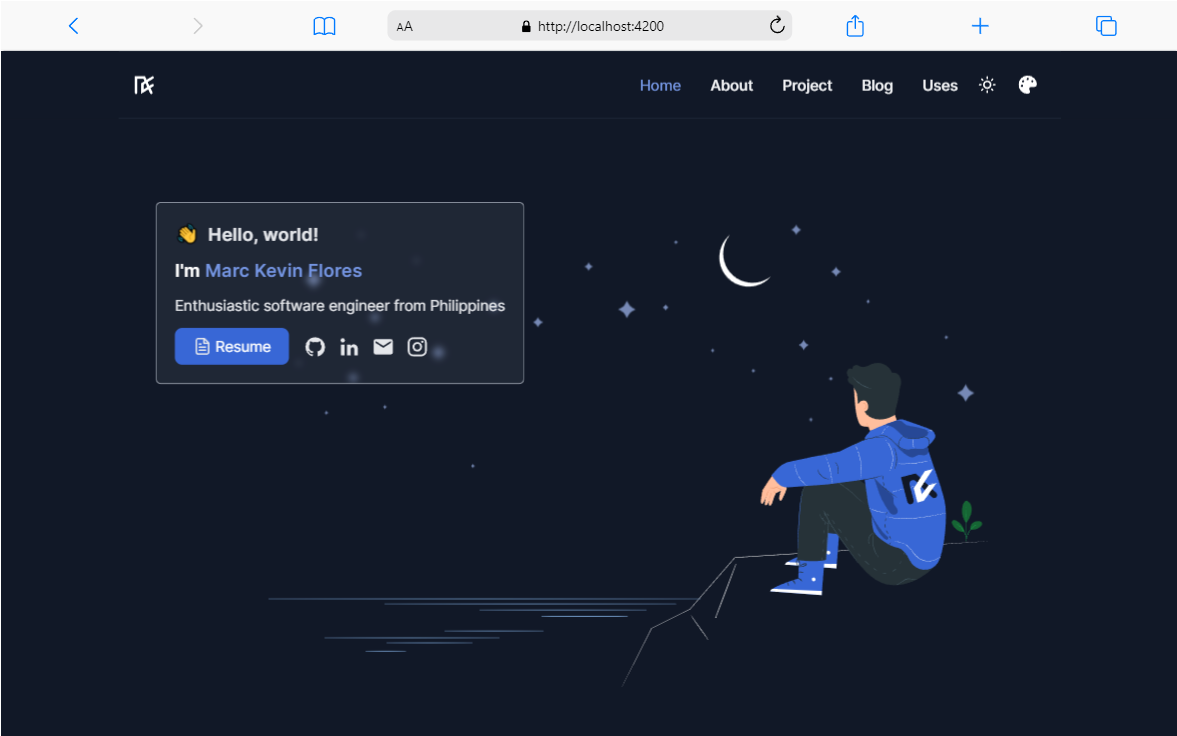
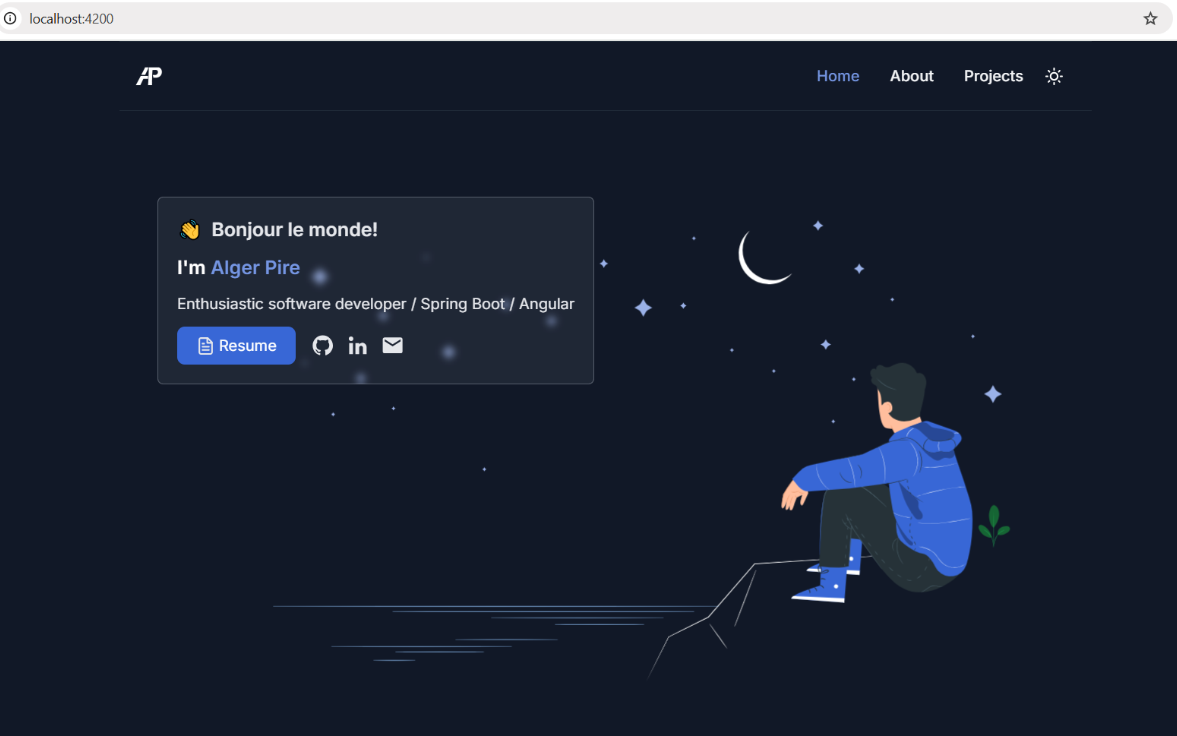
readme updated + preview

diff --git a/README.md b/README.md
@@ -1,6 +1,3 @@
-# [kevinflor.es](https://kevinflor.es)
-
-
 <picture>
   <source media="(prefers-color-scheme: dark)" srcset="./preview-dark.png">
   <source media="(prefers-color-scheme: light)" srcset="./preview.png">
@@ -10,16 +7,13 @@
 ## Stack
 - **Framework**: [Angular](https://angular.dev/)
 - **Styling**: [Tailwind CSS](https://tailwindcss.com/)
-- **Deployment**: [AWS S3](https://aws.amazon.com/s3/)
 
 ## Features 📋
-⚡ Navbar Glassmorphism\
-⚡ Toolbar Color Theme Selector\
-⚡ Light and Dark Mode\
-⚡ Spotlight Glow Hover Card\
-⚡ Devicon with Tooltip\
-⚡ Spotify Music API\
-⚡ Trakt Watch API
+⚡ Navbar Glassmorphism
+⚡ Toolbar Color Theme Selector
+⚡ Light and Dark Mode
+⚡ Spotlight Glow Hover Card
+⚡ Devicon with Tooltip
 
 ## Sections 📚
 ✔ Intro Image\
@@ -28,28 +22,3 @@
 ✔ In my work\
 ✔ About\
 ✔ Projects\
-✔ Uses
-
-
-## Running Locally
-
-This application requires Node.js v18.13+.
-
-```bash
-npm install -g @angular/cli
-git clone https://github.com/marckevinflores/kevinflor.es.git
-cd kevinflor.es
-npm install
-```
-
-Before starting the application, you need to rename the files inside the `src/environments` directory. Remove the `.bak` file extension from `environment.ts.bak` and `environment.development.ts.bak`. Then run:
-```bash
- npm start
-```
-
-Wait to compile and go to http://localhost:4200 after compile finish
-
-
-## Previous versions
-
-my previous versions of this website can be found at [marckevinflores/prev-websites](https://github.com/marckevinflores/prev-websites)
